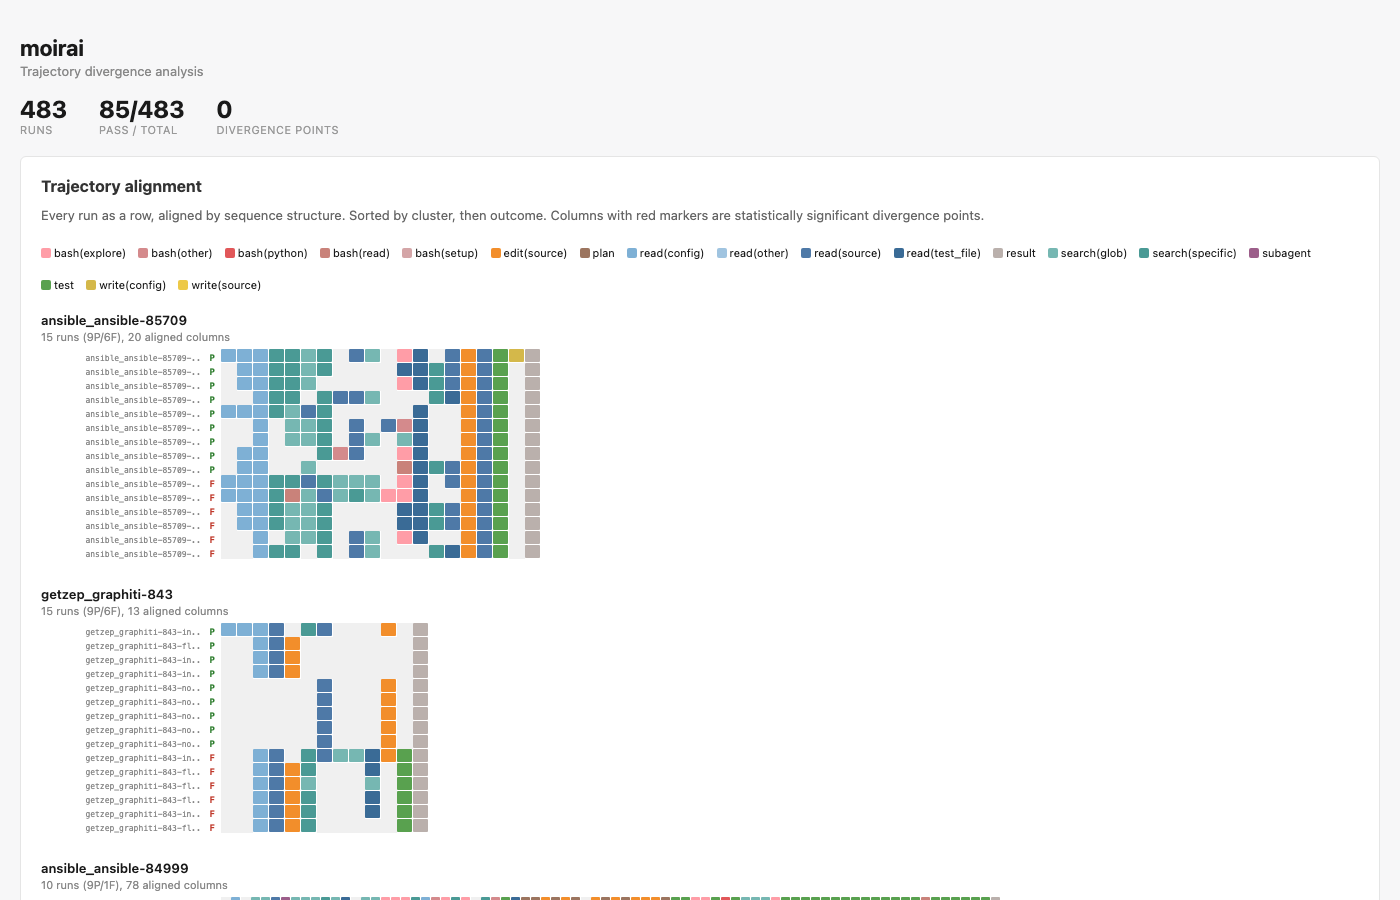
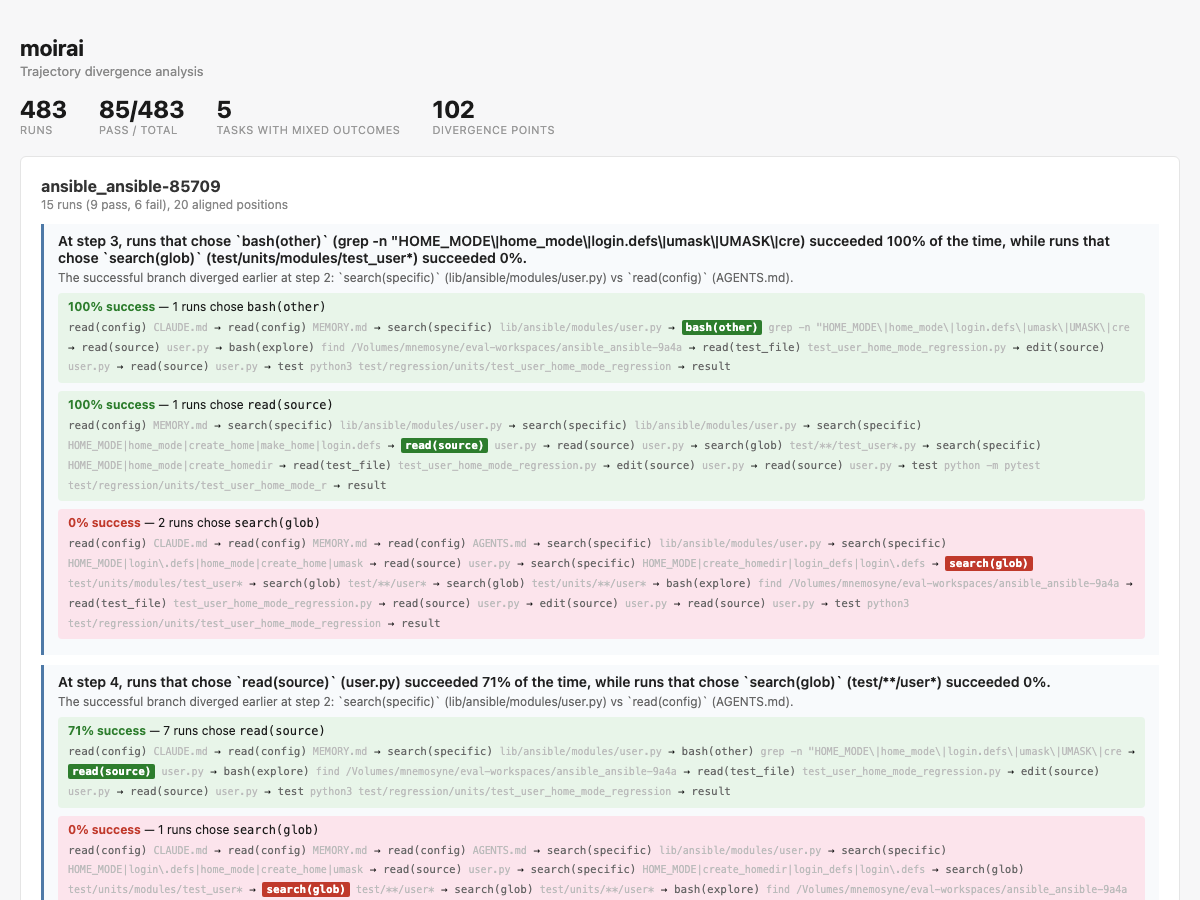
update README screenshots with narrative-first dashboard
Replaced old dashboard screenshot with current per-task narrative view.
Cropped top view shows first task finding with full trajectory context.
Full report in collapsible details. Removed stale screenshot files.

diff --git a/README.md b/README.md
@@ -108,11 +108,18 @@ Compared to failing runs in this cluster (105):
 
 This run spent 76% of its steps exploring (reading, searching) before making 3 targeted edits. The 105 failing runs in the same cluster averaged the same length — the difference wasn't effort, it was strategy.
 
-### HTML dashboard
+### HTML report
 
-`moirai branch --html report.html` generates an analysis dashboard:
+`moirai branch --html report.html` generates a per-task narrative report. Each task with mixed outcomes gets a finding explaining what happened at the fork, with full trajectories showing the actual files and commands:
 
-![moirai dashboard](docs/images/dashboard.png)
+![moirai report](docs/images/dashboard_top.png)
+
+<details>
+<summary>Full report</summary>
+
+![moirai full report](docs/images/dashboard.png)
+
+</details>
 
 ## What you can do with this
 
